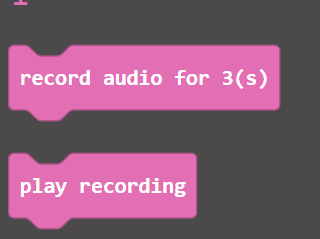
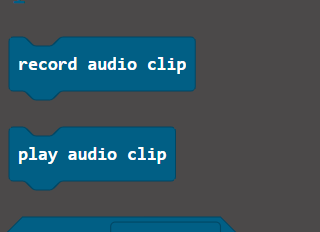
Audio Blocks: Adding Sample Rate (#5041)
* Changed block colors and casing for dropdowns

* Audio blocks: added sample rate, played with values to improve sound quality (this needs more work still). commented out uses of init in ts for initial refactoring

* Enums following convention, more tweaking of mic gain since they were way too high

* Added block ids, got rid of the sample rate getter to match patterns in the extension

* Fixed setting both sample rate bug, got rid of get sample rate

* Fixed bug where output playback wouldn't be set if the recording was already initialized, fixed booleans

* Got rid of TS logic that's no longer needed, played with gain more

* Got rid of playable.ts, fixed a typo

* Updated the extension thumbnail

diff --git a/libs/audio-recording/recording.ts b/libs/audio-recording/recording.ts
@@ -38,10 +38,22 @@ namespace record {
         StoppedRecording
     }
 
-    export enum AudioGain {
+    export enum AudioLevels {
+        //% block="low"
         Low = 1,
+        //% block="medium"
         Medium,
+        //% block="high"
         High
+    }
+
+    export enum AudioSampleRateScope {
+        //% block="everything"
+        Everything,
+        //% block="playback"
+        Playback,
+        //% block="recording"
+        Recording
     }
 
     export enum AudioRecordingMode {
@@ -63,196 +75,93 @@ namespace record {
         //% block="full"
         BufferFull,
     }
-    const AUDIO_EVENT_ID = 0xFF000
-    const AUDIO_VALUE_OFFSET = 0x10
 
-    // Expressed in samples, as we can have varying recording and playback rates!
-    const MAX_SAMPLES = 55000
-    const INTERVAL_STEP = 100
-
-    // Shim state
-    let _moduleMode: AudioRecordingMode = AudioRecordingMode.Stopped
-    let _recordingFreqHz = 22000
-    let _playbackFreqHz = 22000
-    let _micGain: AudioGain = AudioGain.Medium
-
-    // Track if we have a simulator tick timer to use...
-    let _isSetup: boolean = false
-    let _memoryFill: number = 0
-    let _playbackHead: number = 0
-
-    function _init(): void {
-        if (_isSetup)
-            return
-        _isSetup = true
-
-        _moduleMode = AudioRecordingMode.Stopped
-        _recordingFreqHz = 22000
-        _playbackFreqHz = 22000
-        _micGain = AudioGain.Medium
-        music._onStopSound(stopRecording);
-
-
-        control.runInParallel(() => {
-            while (true) {
-
-                switch (_moduleMode) {
-                    case AudioRecordingMode.Playing:
-                        if (_playbackHead >= _memoryFill) {
-                            _playbackHead = 0
-                            _setMode(AudioRecordingMode.Stopped)
-                        }
-                        else {
-                            _playbackHead += _playbackFreqHz / (1000 / INTERVAL_STEP)
-                        }
-                        break
-
-                    case AudioRecordingMode.Recording:
-                        if (_memoryFill >= MAX_SAMPLES) {
-                            _memoryFill = MAX_SAMPLES
-                            _setMode(AudioRecordingMode.Stopped)
-                        }
-                        else {
-                            _memoryFill += _recordingFreqHz / (1000 / INTERVAL_STEP)
-                        }
-                        break
-                    case AudioRecordingMode.Stopped:
-                        if (_memoryFill > 0) {
-                            stop();
-                        }
-                }
-                basic.pause(INTERVAL_STEP)
-            }
-        })
-    }
-
-    function emitEvent(type: AudioEvent): void {
-        control.raiseEvent(AUDIO_EVENT_ID, AUDIO_VALUE_OFFSET + type, EventCreationMode.CreateAndFire)
-    }
-
-    function _setMode(mode: AudioRecordingMode): void {
-        switch (mode) {
-            case AudioRecordingMode.Stopped:
-                if (_moduleMode == AudioRecordingMode.Recording) {
-                    _moduleMode = AudioRecordingMode.Stopped
-                    return emitEvent(AudioEvent.StoppedRecording)
-                }
-
-                if (_moduleMode == AudioRecordingMode.Playing) {
-                    _moduleMode = AudioRecordingMode.Stopped
-                    return emitEvent(AudioEvent.StoppedPlaying)
-                }
-
-                _moduleMode = AudioRecordingMode.Stopped
-                return
-
-            case AudioRecordingMode.Playing:
-                if (_moduleMode !== AudioRecordingMode.Stopped) {
-                    _setMode(AudioRecordingMode.Stopped)
-                }
-
-                _moduleMode = AudioRecordingMode.Playing
-                return emitEvent(AudioEvent.StartedPlaying)
-
-            case AudioRecordingMode.Recording:
-                if (_moduleMode !== AudioRecordingMode.Stopped) {
-                    _setMode(AudioRecordingMode.Stopped)
-                }
-
-                _moduleMode = AudioRecordingMode.Recording
-                return emitEvent(AudioEvent.StartedRecording)
-        }
-    }
+    let _recordingPresent: boolean = false;
 
     /**
      * Record an audio clip for a maximum of 3 seconds
      */
     //% block="record audio clip"
+    //% blockId="record_startRecording"
     //% weight=70
     export function startRecording(): void {
-        _init()
         eraseRecording();
         record();
-        _setMode(AudioRecordingMode.Recording)
+        _recordingPresent = true;
     }
-
-
 
     /**
      * Play recorded audio
      */
-    //% block="play recording"
+    //% block="play audio clip"
+    //% blockId="record_playAudio"
     //% weight=60
+    //% shim=record::play
     export function playAudio(): void {
-        _init()
-        _playbackHead = 0
-        if (!isEmpty()) {
-            _setMode(AudioRecordingMode.Playing)
-            play();
-        }
-        return
     }
 
+    //% shim=record::stop
     export function stopRecording(): void {
-        _init()
-        _setMode(AudioRecordingMode.Stopped)
-        _playbackHead = 0
-        stop();
-        return
     }
 
     export function eraseRecording(): void {
-        _init()
-        _setMode(AudioRecordingMode.Stopped)
-        _playbackHead = 0
-        _memoryFill = 0
+        _recordingPresent = false;
         erase();
         return
-    }
-
-    /**
-     * Do something based on what the audio is doing
-     */
-    //% block="on audio $eventType"
-    //% weight=10
-    export function audioEvent(eventType: AudioEvent, handler: () => void): void {
-        _init()
-        control.onEvent(AUDIO_EVENT_ID, AUDIO_VALUE_OFFSET + eventType, handler)
     }
 
     /**
      * Test what the audio is doing
      */
     //% block="audio is $status"
+    //% blockId="record_audioStatus"
     export function audioStatus(status: AudioStatus): boolean {
-        _init();
         switch (status) {
             case AudioStatus.Playing:
-                return _moduleMode === AudioRecordingMode.Playing;
+                return audioIsPlaying();
             case AudioStatus.Recording:
-                return _moduleMode === AudioRecordingMode.Recording;
+                return audioIsRecording();
             case AudioStatus.Stopped:
-                return _moduleMode === AudioRecordingMode.Stopped;
+                return audioIsStopped();
             case AudioStatus.BufferFull:
-                return _memoryFill > 0;
+                return _recordingPresent;
         }
-    }
-
-    export function isEmpty(): boolean {
-        _init()
-        return _memoryFill <= 0
     }
 
     /**
      * Change how sensitive the microphone is. This changes the recording quality!
      */
     //% block="set microphone sensitivity to $gain"
-    //% gain.defl=Medium
-    //% weight=40
-    export function setMicGain(gain: AudioGain): void {
-        _init()
-        _micGain = gain
+    //% blockId="record_setMicGain"
+    //% weight=30
+    export function setMicGain(gain: AudioLevels): void {
         setMicrophoneGain(gain);
         return
+    }
+
+    /**
+     * Set the sample frequency for recording, playback, or both (default)
+     * 
+     * @param hz The sample frequency, in Hz
+     */
+    //% block="set sample rate to $hz || for $scope"
+    //% blockId="record_setSampleRate"
+    //% hz.min=1000 hz.max=22000 hz.defl=11000
+    //% expandableArgumentMode="enabled"
+    //% weight=40
+    export function setSampleRate(hz: number, scope?: AudioSampleRateScope): void {
+        switch (scope) {
+            case AudioSampleRateScope.Playback:
+                setOutputSampleRate(hz);
+                break;
+
+            case AudioSampleRateScope.Recording:
+                setInputSampleRate(hz);
+                break;
+            case AudioSampleRateScope.Everything:
+            default:
+                setBothSamples(hz);
+                break;
+        }
     }
 }

diff --git a/libs/audio-recording/shims.d.ts b/libs/audio-recording/shims.d.ts
@@ -54,6 +54,24 @@ declare namespace record {
      */
     //% shim=record::audioIsStopped
     function audioIsStopped(): boolean;
+
+    /**
+     * Change the sample rate of the splitter channel (audio input)
+     */
+    //% shim=record::setInputSampleRate
+    function setInputSampleRate(sampleRate: int32): void;
+
+    /**
+     * Change the sample rate of the mixer channel (audio output)
+     */
+    //% shim=record::setOutputSampleRate
+    function setOutputSampleRate(sampleRate: int32): void;
+
+    /**
+     * Set the sample rate for both input and output
+     */
+    //% shim=record::setBothSamples
+    function setBothSamples(sampleRate: int32): void;
 }
 
 // Auto-generated. Do not edit. Really.

diff --git a/sim/state/record-audio.ts b/sim/state/record-audio.ts
@@ -37,4 +37,11 @@ namespace pxsim.record {
     export function audioIsStopped(): boolean {
         return false;
     }
+
+    export function setSampleRate(rate: number): void {
+    }
+
+    export function getSampleRate(): number {
+        return 0;
+    }
 }

diff --git a/libs/audio-recording/recording.cpp b/libs/audio-recording/recording.cpp
@@ -29,6 +29,8 @@ using namespace pxt;
 namespace record {
 
 static StreamRecording *recording = NULL;
+static SplitterChannel *splitterChannel = NULL;
+static MixerChannel *channel = NULL;
 
 void enableMic() {
     uBit.audio.activateMic();
@@ -40,20 +42,27 @@ void disableMic() {
     uBit.audio.deactivateMic();
 }
 
-void checkEnv() {
+
+void checkEnv(int sampleRate = -1) {
     if (recording == NULL) {
+        if (sampleRate == -1)
+            sampleRate = 11000;
         MicroBitAudio::requestActivation();
 
-        recording = new StreamRecording(*uBit.audio.splitter);
+        splitterChannel = uBit.audio.splitter->createChannel();
 
-        MixerChannel *channel = uBit.audio.mixer.addChannel(*recording, 22000);
+        recording = new StreamRecording(*splitterChannel);
 
-        // By connecting to the mic channel, we activate it automatically, so shut it down again.
-        disableMic();
+        channel = uBit.audio.mixer.addChannel(*recording, sampleRate);
 
-        channel->setVolume(100.0);
+        channel->setVolume(75.0);
         uBit.audio.mixer.setVolume(1000);
         uBit.audio.setSpeakerEnabled(true);
+    }
+
+    if (recording != NULL && sampleRate != -1) {
+        channel = uBit.audio.mixer.addChannel(*recording, sampleRate);
+        channel->setVolume(75.0);
     }
 }
 
@@ -104,13 +113,13 @@ void erase() {
 void setMicrophoneGain(int gain) {
     switch (gain) {
     case 1:
-        uBit.audio.processor->setGain(0.1);
+        uBit.audio.processor->setGain(0.079f);
         break;
     case 2:
-        uBit.audio.processor->setGain(0.5);
+        uBit.audio.processor->setGain(0.2f);
         break;
     case 3:
-        uBit.audio.processor->setGain(1);
+        uBit.audio.processor->setGain(0.4f);
         break;
     }
 }
@@ -146,4 +155,32 @@ bool audioIsRecording() {
 bool audioIsStopped() {
     return recording->isStopped();
 }
+
+/**
+ * Change the sample rate of the splitter channel (audio input)
+ */
+//%
+void setInputSampleRate(int sampleRate) {
+    checkEnv();
+    splitterChannel->requestSampleRate(sampleRate);
+}
+
+
+/**
+ * Change the sample rate of the mixer channel (audio output)
+ */
+//%
+void setOutputSampleRate(int sampleRate) {
+    checkEnv(sampleRate);
+}
+
+/**
+ * Set the sample rate for both input and output
+*/
+//%
+void setBothSamples(int sampleRate) {
+    checkEnv(sampleRate);
+    splitterChannel->requestSampleRate(sampleRate);
+}
+
 } // namespace record
